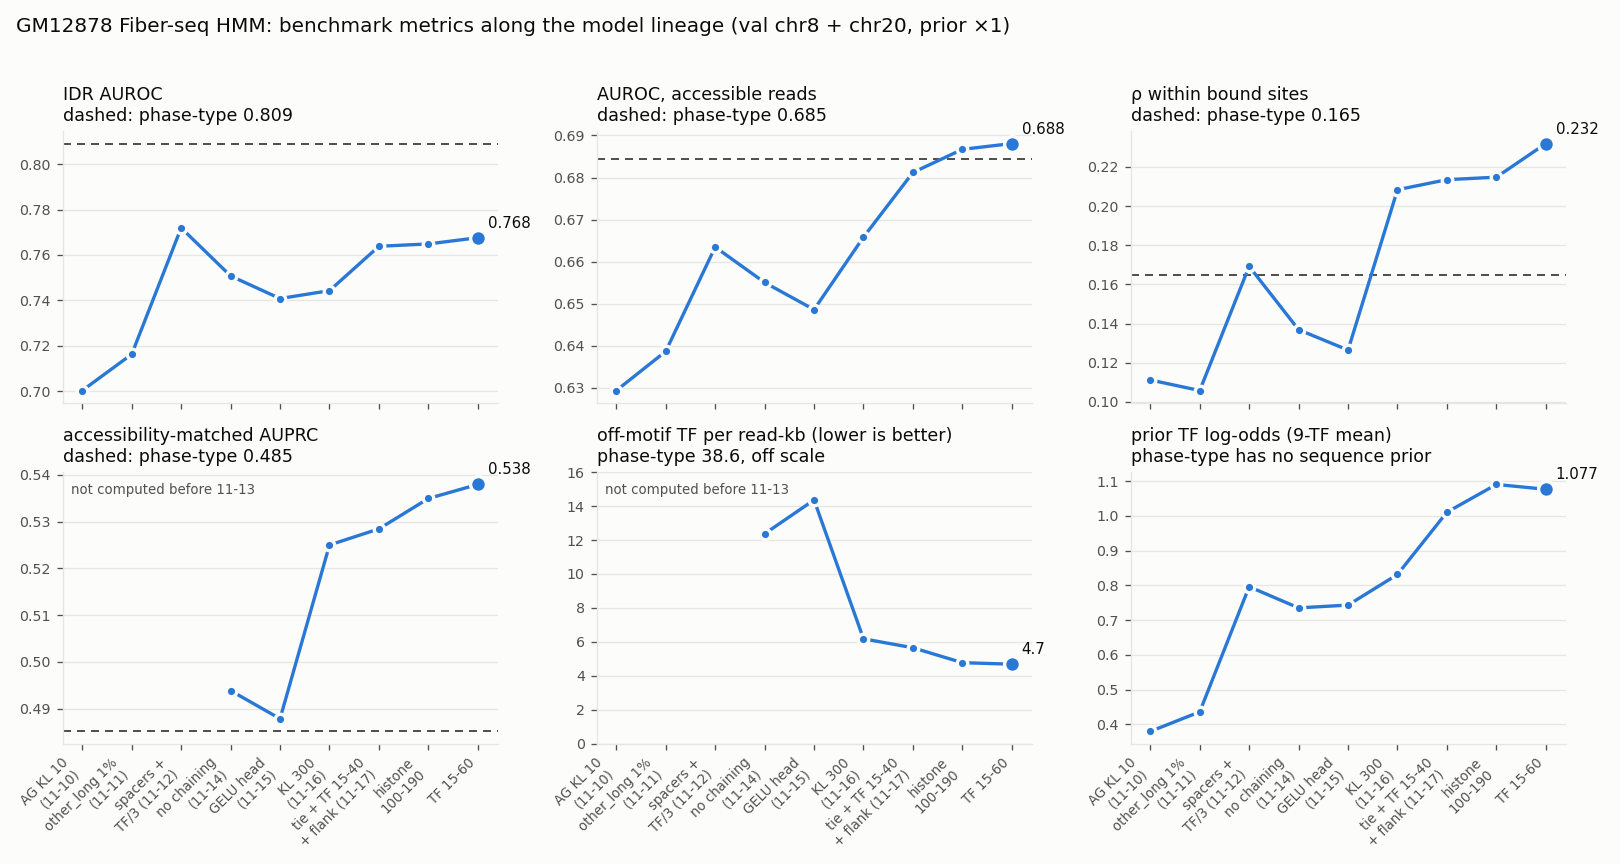
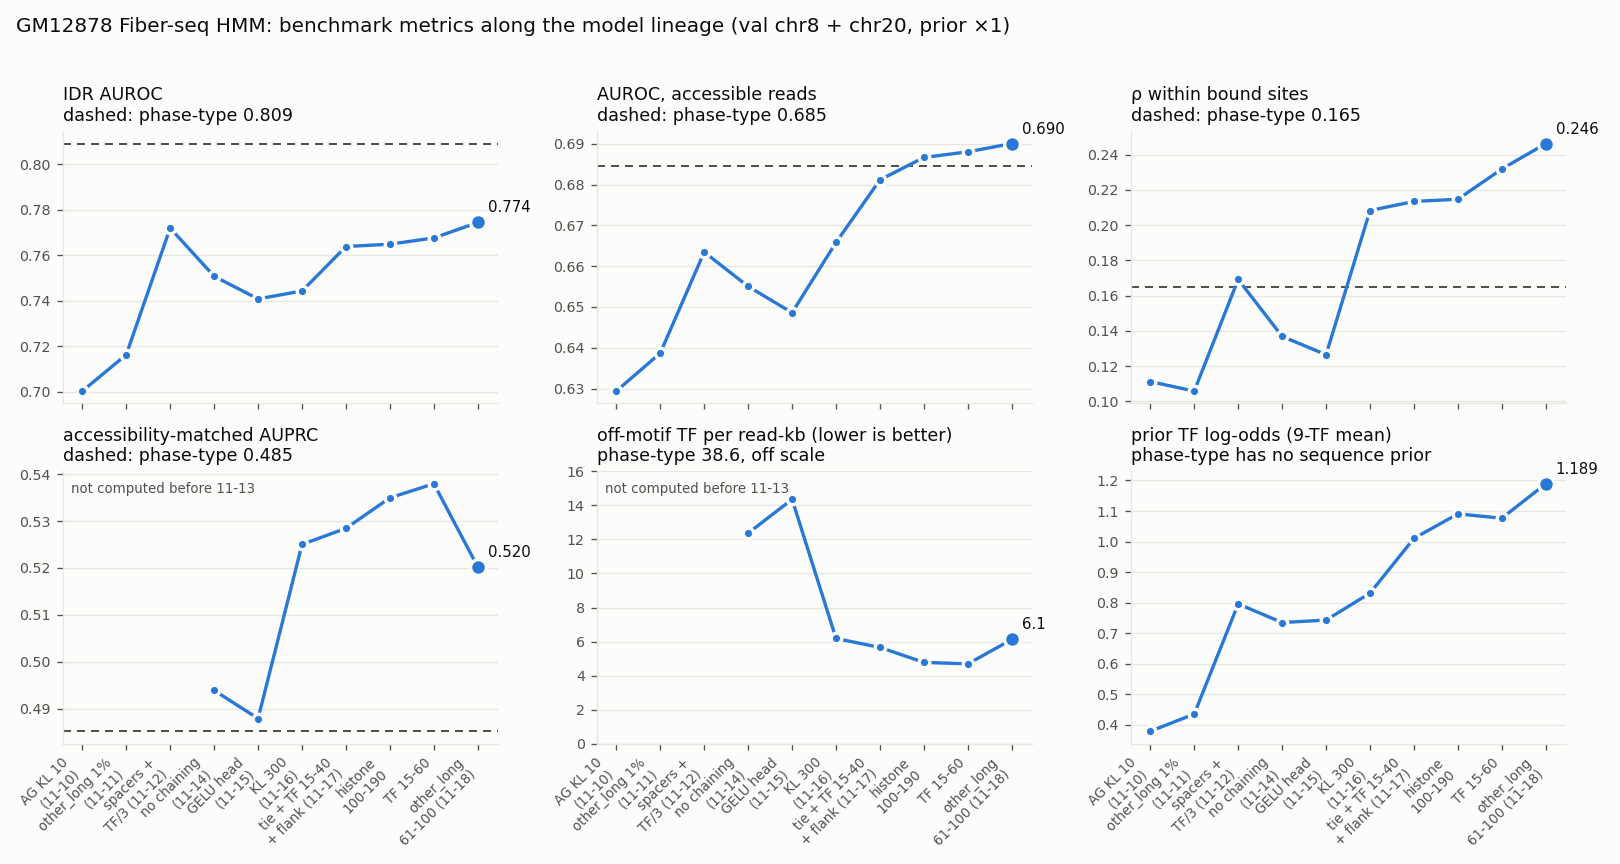
Add the other_long 61-100 run note and report update

diff --git a/projects/smf-hmm/2026-11-17/fiberseq-model-report/plot_metric_progression.py b/projects/smf-hmm/2026-11-17/fiberseq-model-report/plot_metric_progression.py
@@ -21,7 +21,7 @@ W = Path("/scratch/users/diamant/fiber_eval_work")
 LINEAGE = [  # (model key, label)
     ("ag_kl10", "AG KL 10\n(11-10)"), ("ag_ol001", "other_long 1%\n(11-11)"), ("ag_sptf", "spacers +\nTF/3 (11-12)"),
     ("abl_B", "no chaining\n(11-14)"), ("gelu_s0", "GELU head\n(11-15)"), ("fix_kl300", "KL 300\n(11-16)"),
-    ("r2_full", "tie + TF 15-40\n+ flank (11-17)"), ("r3_hist100_190", "histone\n100-190"), ("r4_hist190_tf60", "TF 15-60"),
+    ("r2_full", "tie + TF 15-40\n+ flank (11-17)"), ("r3_hist100_190", "histone\n100-190"), ("r4_hist190_tf60", "TF 15-60"), ("r5_tf60_ol61", "other_long\n61-100 (11-18)"),
 ]
 BASELINE = "phase_type"
 

diff --git a/projects/smf-hmm/2026-11-17/fiberseq-model-report.md b/projects/smf-hmm/2026-11-17/fiberseq-model-report.md
@@ -18,7 +18,7 @@ tags: [smf-hmm, fiberseq, report, model-design, metrics]
 ## Status and conventions
 
 **Status.** This is a draft. Numbers are copied from the research notes and evaluation tables listed in
-[Sources](#sources). The latest model, TF 15-60 (`hist190_tf60`), is included. Comments in
+[Sources](#sources). The latest model, TF 15-60 with other_long 61-100 (`tf60_ol61`, 2026-11-18), is included. Comments in
 *[brackets]* mark editorial to-dos for the LaTeX version.
 
 **Conventions.**
@@ -83,7 +83,7 @@ The case for these metrics is in §2.4.
 
 ![Metric progression along the model lineage](fiberseq-model-report/metric_progression.png)
 
-*Along the main lineage, accessible-read AUROC, within-bound ρ, matched AUPRC and prior log-odds rise to or past phase-type (dashed), and off-motif TF falls to about an eighth of phase-type's; raw AUROC peaks with spacers + TF/3 and stays below phase-type. Made with `fiberseq-model-report/plot_metric_progression.py`.*
+*Along the main lineage, accessible-read AUROC, within-bound ρ, matched AUPRC and prior log-odds rise to or past phase-type (dashed), and off-motif TF falls to about a sixth of phase-type's (rising again in the last run); raw AUROC peaks in the last run (0.774) and stays below phase-type; AUPRC drops in the last run. Made with `fiberseq-model-report/plot_metric_progression.py`.*
 
 ---
 
@@ -234,6 +234,7 @@ AUROC and 0.02 log-odds (2026-11-15/16).]*
 | 16 | 11-17 | combined 13 + 14 + 15 (`r2_full`) | AUROC 0.764, AUPRC 0.528, off-motif 5.65, log-odds 1.01; each part contributes (leave-one-out) | [round 2](fiber-ablation-round2-full-model-leave-one-out.md) |
 | 17 | 11-17 | variable-length nucleosome, 100-190 bp: P(d) ∝ exp(−\|d − 147\|/15), 40-state exit tail, tied histone potentials | other_long held short nucleosomes (100 bp cap; spans 104-113 bp) and over-long ones (other_long at its minimum beside a histone; spans about 160-190 bp); result: AUROC 0.765, AUPRC 0.535, off-motif 4.78, log-odds 1.09, other_long 323 → 130 per 1,000 reads | [short other_long](fiber-short-other-long-calls.md); [variable nucleosome](fiber-variable-length-nucleosome.md) |
 | 18 | 11-17 | TF maximum 40 → 60 bp (`hist190_tf60`) | aimed at the isolated 41-60 bp other_long patches (27% on bound CTCF); result: AUROC 0.768, ρ within bound 0.232, AUPRC 0.538, off-motif 4.69, log-odds 1.08; but only 0.7% of TF calls exceed 40 bp (TF's zero-bias duration prior makes 41-59 bp 4-5× less likely than other_long's), so the gains likely come from removing the 40 bp cap's censoring | [TF 15-60](fiber-tf-15-60.md) |
+| 19 | 11-18 | other_long minimum 40 → 61 bp (`tf60_ol61`) | makes TF the only state for 41-60 bp: 9.1% of TF calls now exceed 40 bp, 59% of them on bound motifs (49% CTCF); AUROC 0.774, ρ within bound 0.246, log-odds 1.19 (CTCF 3.07), CTCF AUPRC 0.849; but mean AUPRC 0.520 (CREM 0.668 → 0.566, YY1 0.325 → 0.287), off-motif TF 4.69 → 6.12, and other_long piles at 61 bp (12%) | [TF 15-60 + other_long 61-100](../2026-11-18/fiber-tf60-other-long-61-100.md) |
 
 *[LaTeX: one short subsection per row, with its figure from §4.3.]*
 
@@ -377,35 +378,36 @@ checkpointing), 100 epochs, seed 0.
 | `r2_full` (11-17) | tie + TF 15-40 + flank | 0.764 | 0.681 | 0.780 | 0.213 | 0.528 | 5.65 | 1.01 |
 | histone 100-147 (11-17) | short nucleosomes only | 0.743 | 0.674 | 0.761 | 0.222 | 0.532 | 5.18 | 1.10 |
 | `hist100_190` (11-17) | variable nucleosome 100-190 | 0.765 | 0.687 | 0.781 | 0.215 | 0.535 | 4.78 | 1.09 |
-| **`hist190_tf60` (11-17)** | **TF 15-60** | **0.768** | **0.688** | **0.783** | **0.232** | **0.538** | **4.69** | **1.08** |
+| `hist190_tf60` (11-17) | TF 15-60 | 0.768 | 0.688 | 0.783 | 0.232 | 0.538 | 4.69 | 1.08 |
+| **`tf60_ol61` (11-18)** | **other_long 61-100** | **0.774** | **0.690** | **0.789** | **0.246** | 0.520 | 6.12 | **1.19** |
 
 ### 6.2 Per-TF AUROC, prior ×1
 
-| TF | phase-type | AG KL 10 | AG ol001 | `ag_sptf` | GELU B | GELU B KL 300 | `r2_full` | `hist100_190` | `hist190_tf60` |
-|---|---|---|---|---|---|---|---|---|---|
-| CTCF | 0.884 | 0.840 | 0.850 | 0.876 | 0.862 | 0.866 | 0.868 | 0.861 | 0.865 |
-| NRF1 | 0.894 | 0.786 | 0.818 | 0.886 | 0.832 | 0.840 | 0.868 | 0.859 | 0.866 |
-| USF2 | 0.847 | 0.718 | 0.748 | 0.796 | 0.774 | 0.793 | 0.788 | 0.783 | 0.782 |
-| CREM | 0.844 | 0.736 | 0.744 | 0.803 | 0.770 | 0.740 | 0.825 | 0.808 | 0.803 |
-| RFX5 | 0.792 | 0.710 | 0.706 | 0.763 | 0.748 | 0.738 | 0.753 | 0.771 | 0.771 |
-| EBF1 | 0.719 | 0.678 | 0.682 | 0.725 | 0.706 | 0.734 | 0.731 | 0.729 | 0.727 |
-| PAX5 | 0.756 | 0.626 | 0.659 | 0.708 | 0.655 | 0.674 | 0.697 | 0.702 | 0.706 |
-| SPI1 | 0.820 | 0.673 | 0.689 | 0.745 | 0.721 | 0.722 | 0.746 | 0.753 | 0.755 |
-| YY1 | 0.726 | 0.537 | 0.552 | 0.645 | 0.599 | 0.590 | 0.599 | 0.617 | 0.633 |
+| TF | phase-type | AG KL 10 | AG ol001 | `ag_sptf` | GELU B | GELU B KL 300 | `r2_full` | `hist100_190` | `hist190_tf60` | `tf60_ol61` |
+|---|---|---|---|---|---|---|---|---|---|---|
+| CTCF | 0.884 | 0.840 | 0.850 | 0.876 | 0.862 | 0.866 | 0.868 | 0.861 | 0.865 | 0.880 |
+| NRF1 | 0.894 | 0.786 | 0.818 | 0.886 | 0.832 | 0.840 | 0.868 | 0.859 | 0.866 | 0.877 |
+| USF2 | 0.847 | 0.718 | 0.748 | 0.796 | 0.774 | 0.793 | 0.788 | 0.783 | 0.782 | 0.785 |
+| CREM | 0.844 | 0.736 | 0.744 | 0.803 | 0.770 | 0.740 | 0.825 | 0.808 | 0.803 | 0.793 |
+| RFX5 | 0.792 | 0.710 | 0.706 | 0.763 | 0.748 | 0.738 | 0.753 | 0.771 | 0.771 | 0.766 |
+| EBF1 | 0.719 | 0.678 | 0.682 | 0.725 | 0.706 | 0.734 | 0.731 | 0.729 | 0.727 | 0.737 |
+| PAX5 | 0.756 | 0.626 | 0.659 | 0.708 | 0.655 | 0.674 | 0.697 | 0.702 | 0.706 | 0.731 |
+| SPI1 | 0.820 | 0.673 | 0.689 | 0.745 | 0.721 | 0.722 | 0.746 | 0.753 | 0.755 | 0.763 |
+| YY1 | 0.726 | 0.537 | 0.552 | 0.645 | 0.599 | 0.590 | 0.599 | 0.617 | 0.633 | 0.637 |
 
 ### 6.3 Per-TF prior TF log-odds
 
-| TF | AG KL 10 | AG ol001 | `ag_sptf` | GELU B | GELU B KL 300 | `r2_full` | `hist100_190` | `hist190_tf60` |
-|---|---|---|---|---|---|---|---|---|
-| CTCF | 0.87 | 0.90 | 2.02 | 1.84 | 1.97 | 2.56 | 2.70 | 2.77 |
-| NRF1 | 0.85 | 1.11 | 1.55 | 1.40 | 1.71 | 1.68 | 1.81 | 2.05 |
-| USF2 | 0.30 | 0.42 | 0.79 | 0.65 | 0.99 | 1.08 | 1.26 | 1.04 |
-| CREM | 0.29 | 0.35 | 0.60 | 0.77 | 0.78 | 0.87 | 0.89 | 0.63 |
-| RFX5 | 0.32 | 0.22 | 0.43 | 0.57 | 0.43 | 0.75 | 0.85 | 0.86 |
-| EBF1 | 0.20 | 0.20 | 0.40 | 0.33 | 0.48 | 0.54 | 0.56 | 0.58 |
-| PAX5 | 0.20 | 0.21 | 0.42 | 0.38 | 0.35 | 0.57 | 0.51 | 0.51 |
-| SPI1 | 0.25 | 0.32 | 0.48 | 0.48 | 0.49 | 0.66 | 0.73 | 0.67 |
-| YY1 | 0.14 | 0.20 | 0.49 | 0.27 | 0.28 | 0.37 | 0.51 | 0.59 |
+| TF | AG KL 10 | AG ol001 | `ag_sptf` | GELU B | GELU B KL 300 | `r2_full` | `hist100_190` | `hist190_tf60` | `tf60_ol61` |
+|---|---|---|---|---|---|---|---|---|---|
+| CTCF | 0.87 | 0.90 | 2.02 | 1.84 | 1.97 | 2.56 | 2.70 | 2.77 | 3.07 |
+| NRF1 | 0.85 | 1.11 | 1.55 | 1.40 | 1.71 | 1.68 | 1.81 | 2.05 | 1.95 |
+| USF2 | 0.30 | 0.42 | 0.79 | 0.65 | 0.99 | 1.08 | 1.26 | 1.04 | 1.28 |
+| CREM | 0.29 | 0.35 | 0.60 | 0.77 | 0.78 | 0.87 | 0.89 | 0.63 | 0.87 |
+| RFX5 | 0.32 | 0.22 | 0.43 | 0.57 | 0.43 | 0.75 | 0.85 | 0.86 | 0.96 |
+| EBF1 | 0.20 | 0.20 | 0.40 | 0.33 | 0.48 | 0.54 | 0.56 | 0.58 | 0.54 |
+| PAX5 | 0.20 | 0.21 | 0.42 | 0.38 | 0.35 | 0.57 | 0.51 | 0.51 | 0.62 |
+| SPI1 | 0.25 | 0.32 | 0.48 | 0.48 | 0.49 | 0.66 | 0.73 | 0.67 | 0.77 |
+| YY1 | 0.14 | 0.20 | 0.49 | 0.27 | 0.28 | 0.37 | 0.51 | 0.59 | 0.65 |
 
 ### 6.4 State-level diagnostics (Viterbi, every 8th val window)
 
@@ -415,6 +417,7 @@ checkpointing), 100 epochs, seed 0.
 | `r2_full` | 123 | 92% | 20% (15 bp) | 323 | 40% | 147 (fixed) |
 | `hist100_190` | 116 | 86% | 21% (15 bp) | 130 | 9% | median 142 (100-190) |
 | `hist190_tf60` | 107 | 86% | 17% (15 bp) | 126 | 9% | median 142 (100-190) |
+| `tf60_ol61` | 112 | 90% | 13% (15 bp) | 105 | 8% at 100; 12% at its 61 bp minimum | median 142 (100-190) |
 
 ### 6.5 Reading the progression
 *[Prose for LaTeX.]*
@@ -434,7 +437,7 @@ checkpointing), 100 epochs, seed 0.
 - **Nucleosome lengths follow the duration prior.** Viterbi median 142 vs a prior median of 147, with
   about the same spread. Options: a tighter scale (about 8 bp), or a "spike at 147 + broad tail"
   prior.
-- **TF 15-60** (`hist190_tf60`) gives small gains, but TF barely uses 41-60 bp. A flatter TF duration prior would be needed to move the CTCF-like patches out of other_long.
+- **TF 15-60 + other_long 61-100** (`tf60_ol61`) moves the CTCF-like 41-60 bp patches into TF and gives the best AUROC, ρ and prior so far, but costs matched AUPRC (CREM, YY1) and raises off-motif TF; other_long now piles at 61 bp.
 - **Removing other_long.** The remaining 61-99 bp other_long calls look like sub-nucleosomal particles,
   so a histone minimum of about 60-70 bp may let other_long go. That conflicts with a tight length
   prior.

diff --git a/projects/smf-hmm/2026-11-18/fiber-tf60-other-long-61-100.md b/projects/smf-hmm/2026-11-18/fiber-tf60-other-long-61-100.md
@@ -1,0 +1,124 @@
+---
+title: TF 15-60 with other_long 61-100 — TF now takes the 41-60 bp patches (59% on bound motifs, mostly CTCF); best AUROC (0.774), ρ within bound (0.246) and prior log-odds (1.19), but matched AUPRC falls (0.538 → 0.520, CREM and YY1) and off-motif TF rises 31%; other_long now piles at 61 bp
+date: 2026-11-18
+project: smf-hmm
+agent: Claude Code
+status: draft
+sources:
+  - Run /scratch/users/diamant/2026-11-17_fiber_hist190_tf60_ol61_kl300_alphagenome_bf16 (train.sbatch, code/); comparison r4_hist190_tf60 (TF 15-60, other_long 40-100)
+  - Slurm training 52756811, val inference 52756812, Viterbi 52756813, evaluation 52756814 (fiber_eval_work/analyze_r5_val.sbatch), readouts 52855408
+  - Outputs fiber_eval_work/{idr_summary_r5_val.tsv, kernel_ref/specificity_r5/, prior_log_odds/val_r5_priors.tsv}; tf_mechanism/{viterbi_stats_r5.txt, scorecard_r5.tsv, short_ol/r5_tf60_ol61_x1/}
+tags: [smf-hmm, fiberseq, tf-duration, other-long, ctcf, prior-log-odds]
+---
+
+# Summary
+
+**Change.** other_long's minimum goes from 40 to 61 bp, on top of TF 15-60 and histone 100-190
+([TF 15-60](../2026-11-17/fiber-tf-15-60.md)). That run showed that other_long's zero-bias duration
+out-weighed TF's at 41-60 bp, so TF barely used the range. Now TF is the only state for 41-60 bp
+protected patches. Seed 0, val chromosomes only, prior ×1.
+
+**Results.**
+- **TF takes the 41-60 bp patches, and they are good calls.**
+  - 9.1% of Viterbi TF calls exceed 40 bp (15.4 per 1,000 reads), up from 0.7%.
+  - Of these, 59% sit on IDR-bound motifs, 49% on bound CTCF alone; TF calls of 15-40 bp manage 18%.
+  - The median TF length at bound CTCF motifs goes from 29 to 35 bp.
+- **Best so far on ranking and the prior:**
+  - AUROC 0.774 (TF 15-60: 0.768);
+  - protected-read AUROC 0.789;
+  - ρ within bound 0.246 (0.232);
+  - mean prior TF log-odds 1.19 (1.08), with CTCF 3.07 (2.77) and YY1 0.65.
+  - CTCF AUROC 0.880 (0.865), CTCF matched AUPRC 0.849 (0.827); PAX5 AUROC +0.025.
+- **Worse on specificity:**
+  - **Matched AUPRC falls from 0.538 to 0.520,** mostly from CREM (0.668 → 0.566) and YY1
+    (0.325 → 0.287). CREM AUROC is also lower (0.803 → 0.793), although its prior log-odds recovers
+    (0.63 → 0.87).
+  - **Off-motif TF rises from 4.69 to 6.12 per read-kb** (scorecard version 5.87 → 7.02), and TF
+    occupies 1.07% of positions vs 0.82%.
+    - Part of the rise may be a measurement effect (inferred): the metric counts TF bases more than
+      5 bp from a motif, so a 50 bp TF over a 19 bp CTCF motif adds about 20 off-motif bases.
+    - The scorecard's off-motif TF runs barely change (107 → 112 per 1,000 reads), and kernel support
+      improves (86% → 90%).
+- **other_long piles at its new minimum.**
+  - 12% of other_long segments are exactly 61 bp (7.7% at 40 bp before).
+  - Calls of 61-63 bp have protected spans of 64-72 bp (IQR); 84% contain an m6A, and 43% sit next to
+    a nucleosome.
+  - other_long falls to 105 segments per 1,000 reads (126).
+
+**Interpretation.**
+- Separating TF and other_long by length works as intended for CTCF-like footprints. It gives the largest AUROC and prior gain of the
+  nucleosome and TF-length runs.
+- The CREM and YY1 AUPRC losses and the off-motif rise are real costs. Whether they come from longer TF
+  calls at weak-footprint TFs, or from the metric counting motif flanks, is untested.
+- other_long's new 61 bp pile-up repeats the pattern seen in every range tried: it collects whatever
+  its neighbours cannot hold, here 62-72 bp patches.
+
+# Key Points
+
+| model | AUROC | accessible-read AUROC | protected-read AUROC | ρ within bound | matched AUPRC | on-motif share | off-motif TF / read-kb | prior TF log-odds |
+|---|---|---|---|---|---|---|---|---|
+| histone 100-190, TF 15-40 | 0.765 | 0.687 | 0.781 | 0.215 | 0.535 | 0.355 | 4.78 | 1.09 |
+| + TF 15-60 | 0.768 | 0.688 | 0.783 | 0.232 | **0.538** | 0.362 | **4.69** | 1.08 |
+| **+ other_long 61-100** | **0.774** | **0.690** | **0.789** | **0.246** | 0.520 | **0.377** | 6.12 | **1.19** |
+
+| model | TF / 1,000 reads | TF > 40 bp | TF median | TF at 15 bp | other_long / 1,000 reads | other_long at its min / max | other_long median | CTCF / NRF1 median at bound motifs | kernel-supported |
+|---|---|---|---|---|---|---|---|---|---|
+| TF 15-60, other_long 40-100 | 152 | 0.7% | 19 | 17% | 126 | 7.7% (40) / 9.1% | 56 | 29 / 21 | 86% |
+| TF 15-60, other_long 61-100 | 171 | 9.1% | 22 | 13% | 105 | 12.2% (61) / 7.9% | 70 | 35 / 16 | 90% |
+
+- **Per TF:**
+
+  | TF | AUROC, TF 15-60 | AUROC, + other_long 61-100 | matched AUPRC, TF 15-60 | matched AUPRC, + other_long 61-100 | prior log-odds, TF 15-60 | prior log-odds, + other_long 61-100 |
+  |---|---|---|---|---|---|---|
+  | CTCF | 0.865 | 0.880 | 0.827 | 0.849 | 2.77 | 3.07 |
+  | NRF1 | 0.866 | 0.877 | 0.791 | 0.785 | 2.05 | 1.95 |
+  | USF2 | 0.782 | 0.785 | 0.632 | 0.622 | 1.04 | 1.28 |
+  | CREM | 0.803 | 0.793 | 0.668 | 0.566 | 0.63 | 0.87 |
+  | RFX5 | 0.771 | 0.766 | 0.473 | 0.463 | 0.86 | 0.96 |
+  | SPI1 | 0.755 | 0.763 | 0.413 | 0.403 | 0.67 | 0.77 |
+  | EBF1 | 0.727 | 0.737 | 0.388 | 0.392 | 0.58 | 0.54 |
+  | PAX5 | 0.706 | 0.731 | 0.326 | 0.315 | 0.51 | 0.62 |
+  | YY1 | 0.633 | 0.637 | 0.325 | 0.287 | 0.59 | 0.65 |
+
+- **Where the new long TF calls land.** Viterbi TF calls by overlap with IDR-labelled motifs:
+
+  | TF calls | n | on a bound motif | on an unbound motif | off motifs |
+  |---|---|---|---|---|
+  | 15-40 bp | 10,004 | 18% | 6% | 77% |
+  | 41-60 bp | 1,000 | 59% (49% CTCF) | 5% | 36% |
+
+# Details
+
+- **Learned emissions** were not checked for this run; the TF 15-60 run had TF 0.937 and other_long
+  0.956.
+- **No smoke run.** The code was identical to the earlier runs.
+
+```bash
+S=/scratch/users/diamant; W=$S/fiber_eval_work; T=$W/tf_mechanism
+sbatch $S/2026-11-17_fiber_hist190_tf60_ol61_kl300_alphagenome_bf16/train.sbatch   # other_long {min 61, max 100}
+sbatch --dependency=afterok:<train> $W/infer_variant_val_extra_any.sbatch r5_tf60_ol61 $S/2026-11-17_fiber_hist190_tf60_ol61_kl300_alphagenome_bf16
+MODELS=r5_tf60_ol61 sbatch --dependency=afterok:<train> $T/viterbi_lengths.sbatch
+sbatch --dependency=afterok:<infer> $W/analyze_r5_val.sbatch
+python $T/viterbi_stats.py r3_hist100_190_x1 r4_hist190_tf60_x1 r5_tf60_ol61_x1
+CONFIG=r5_tf60_ol61_x1 POSTERIOR=r5_tf60_ol61 N_READS=0 SHORT_MAX=63 python $T/short_other_long.py
+python $T/nub_scorecard.py $T/scorecard_r5.tsv r5_tf60_ol61
+```
+
+# Related Notes
+
+- [TF 15-60](../2026-11-17/fiber-tf-15-60.md): Why raising TF's cap alone did not move the patches.
+- [Short other_long calls](../2026-11-17/fiber-short-other-long-calls.md): The 41-60 bp patches, many at
+  CTCF.
+- [Fiber-seq model report](../2026-11-17/fiberseq-model-report.md): The running summary of all
+  changes.
+
+# Open Questions
+
+- What are the new off-motif TF bases: flanks of long on-motif calls, or new off-motif calls?
+  Measuring off-motif TF runs per call length would tell.
+- Why do CREM and YY1 lose matched AUPRC while their prior log-odds rise?
+- What should hold the 62-72 bp patches now piled at other_long's minimum?
+
+# Sources
+
+- Run, jobs and outputs in the frontmatter.

diff --git a/projects/smf-hmm/README.md b/projects/smf-hmm/README.md
@@ -6,6 +6,7 @@
 
 ## Notes
 
+- 2026-11-18: [TF 15-60 + other_long 61-100: TF takes the 41-60 bp patches (mostly bound CTCF); best AUROC, ρ and prior log-odds, but lower AUPRC (CREM, YY1) and 31% more off-motif TF](2026-11-18/fiber-tf60-other-long-61-100.md)
 - 2026-11-17: [TF 15-60: small gains (ρ within bound 0.232) from removing the 40 bp cap; TF barely uses 41-60 bp because its duration prior favours other_long there](2026-11-17/fiber-tf-15-60.md)
 - 2026-11-17: [Variable-length nucleosome: 100-190 bp matches base AUROC, best AUPRC and off-motif TF, removes most other_long; 100-147 costs AUROC; lengths largely follow the duration prior](2026-11-17/fiber-variable-length-nucleosome.md)
 - 2026-11-17: [Short other_long calls: TF-like patches just over 40 bp and nucleosomes longer than 147 bp; the 100 bp cap holds short nucleosomes](2026-11-17/fiber-short-other-long-calls.md)
